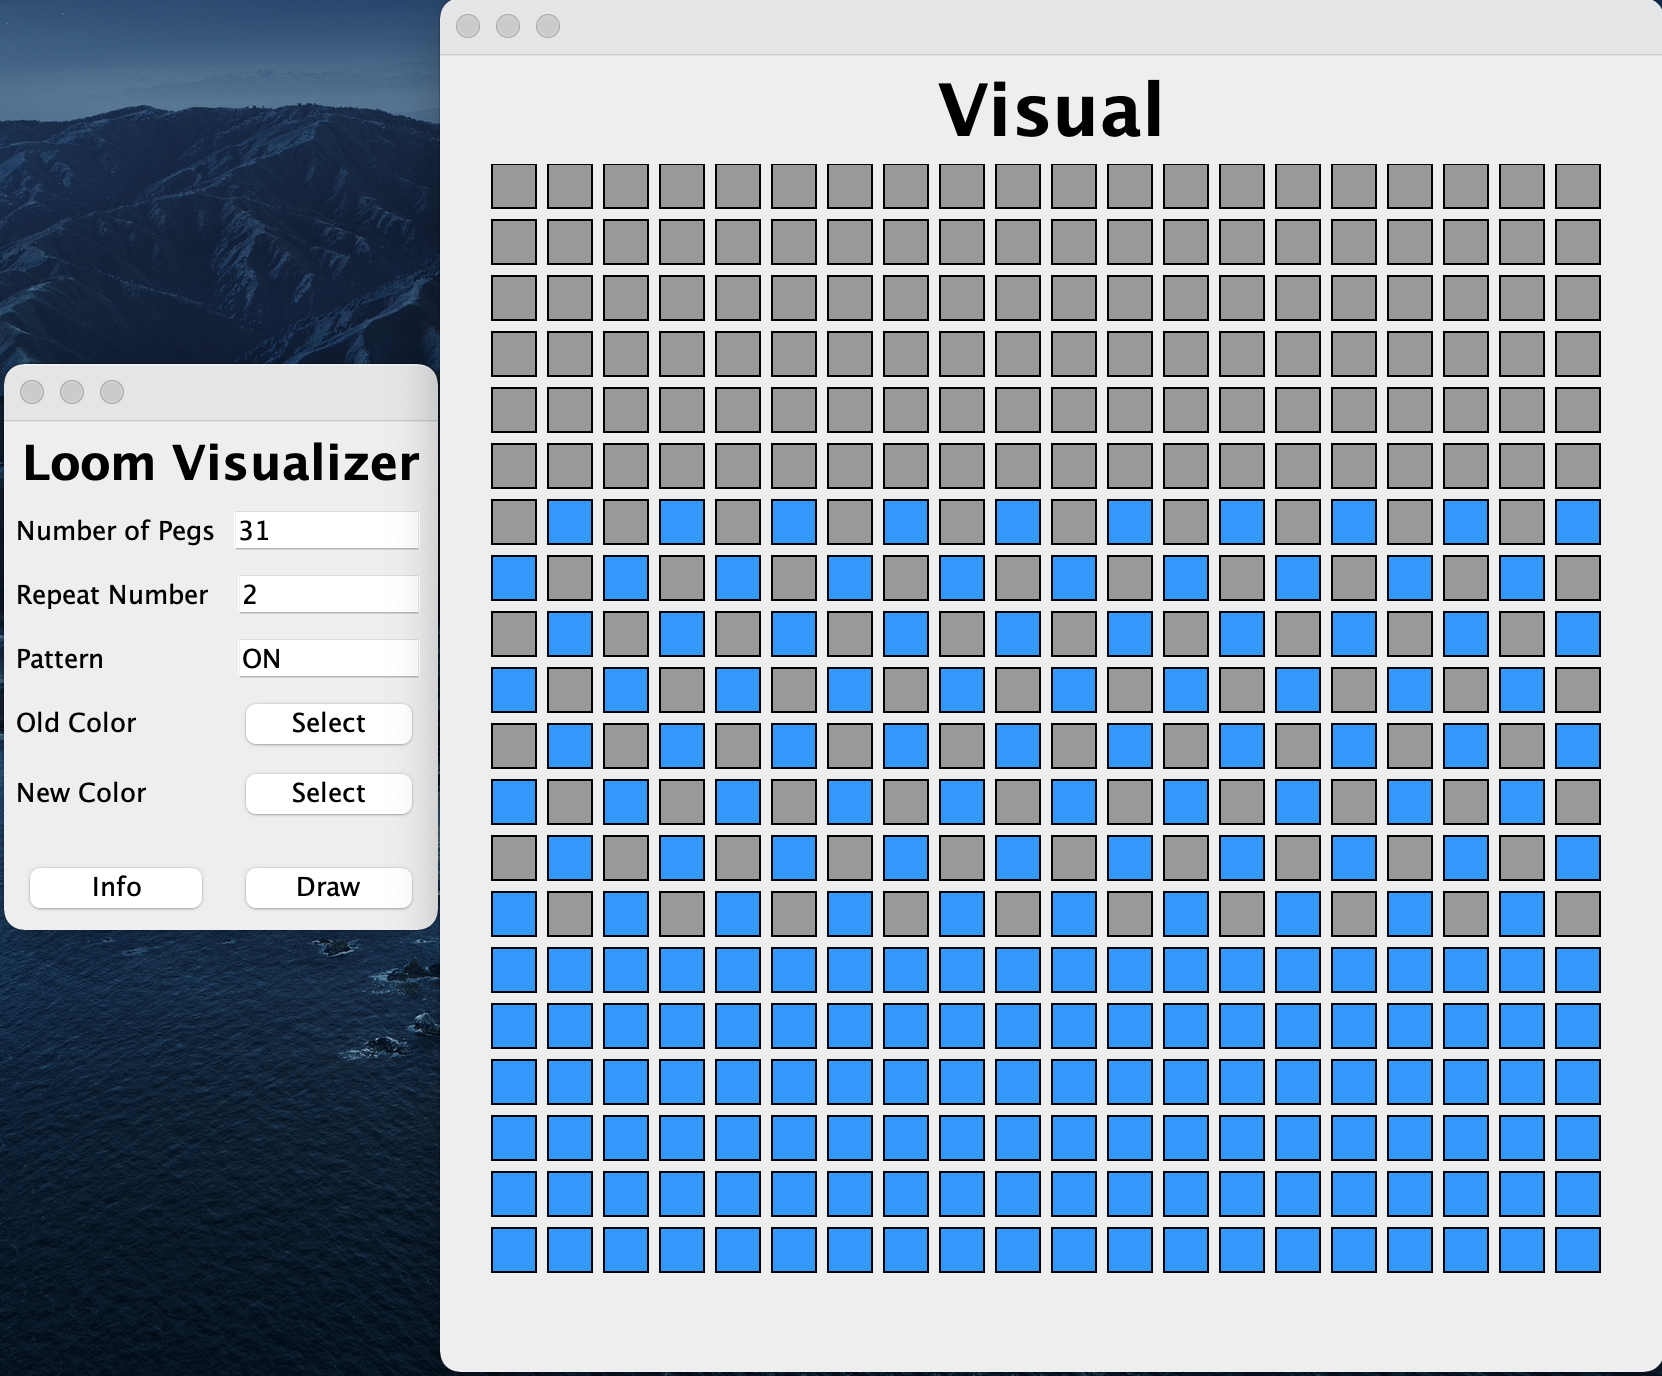
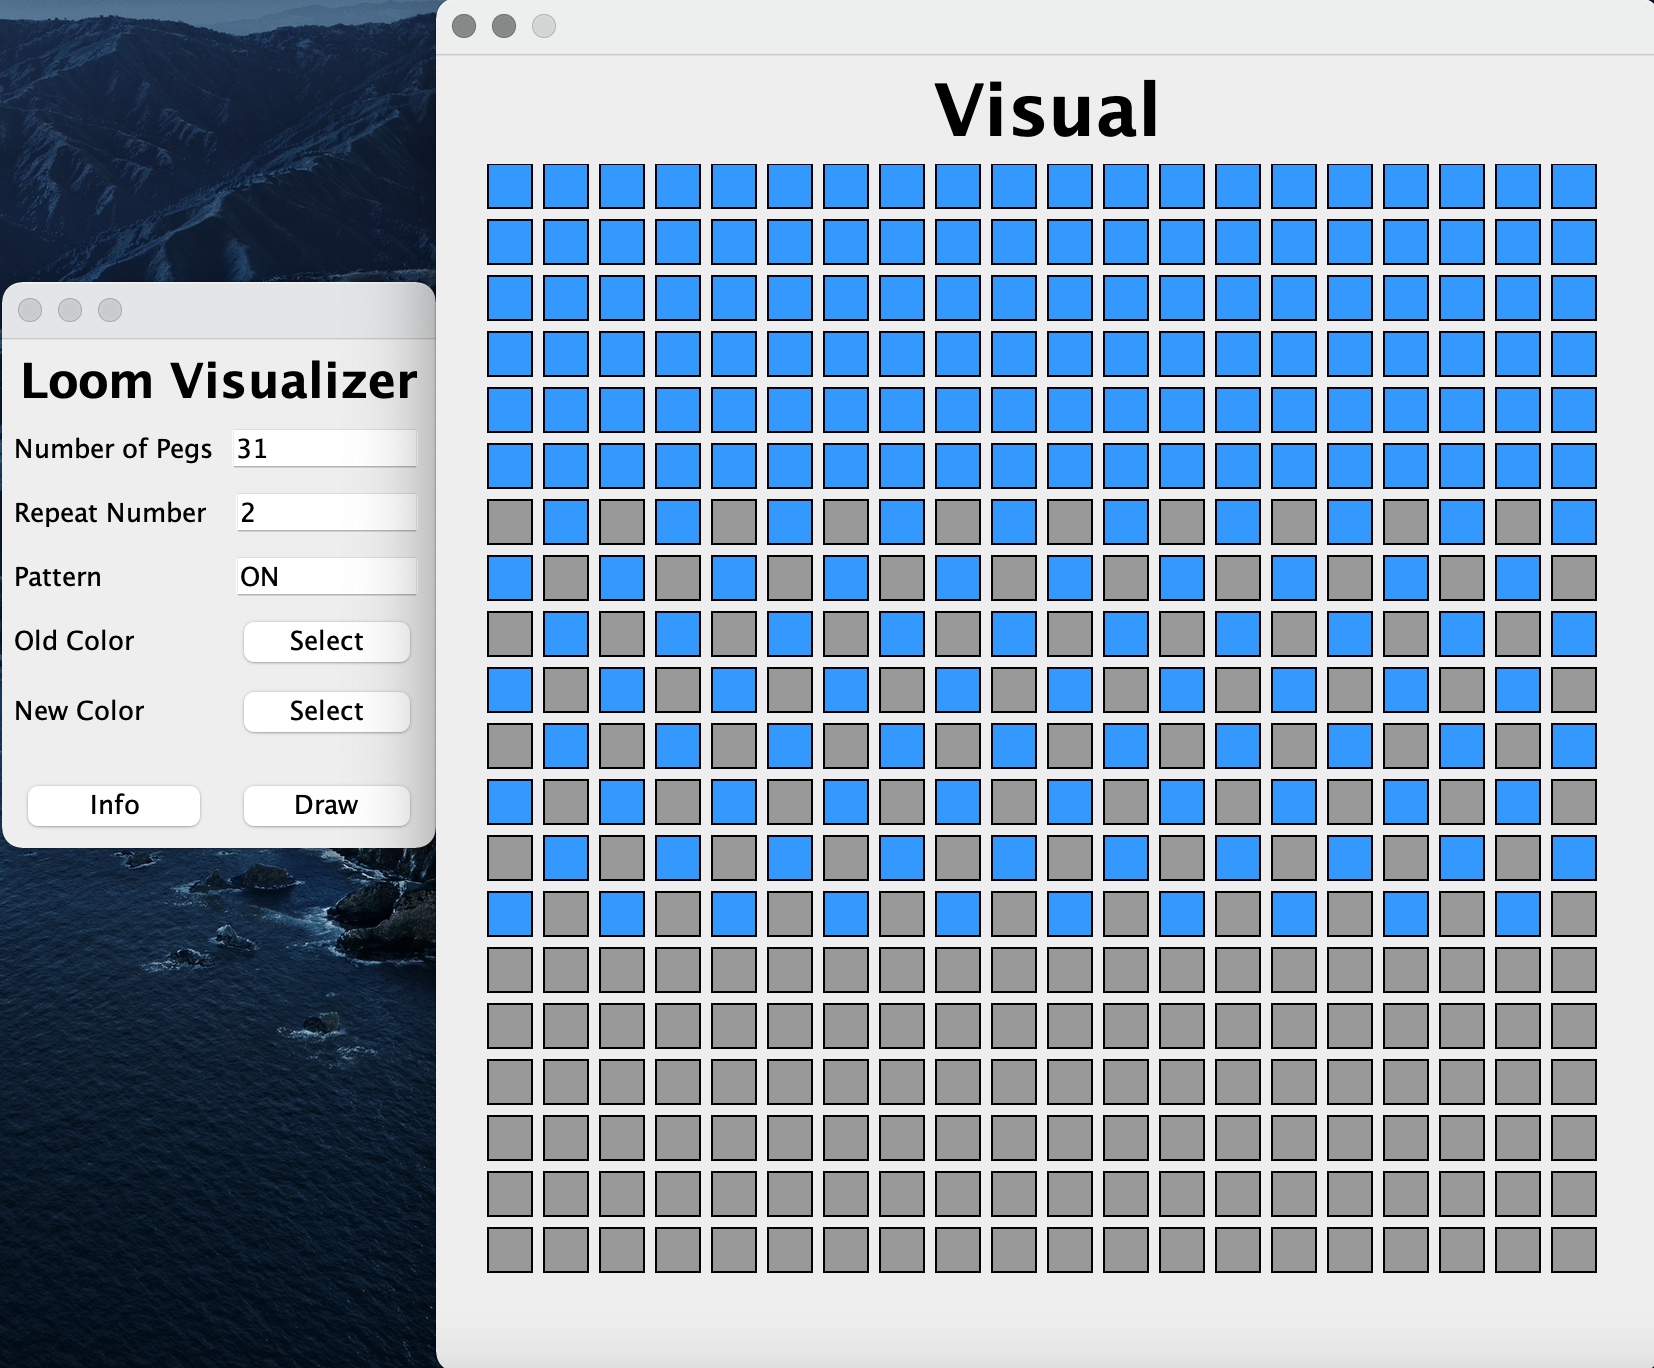
New images

diff --git a/src/main/FrameMain.java b/src/main/FrameMain.java
@@ -178,7 +178,6 @@ public class FrameMain extends javax.swing.JFrame {
         );
 
         FrameOldColor.setMinimumSize(new java.awt.Dimension(686, 465));
-        FrameOldColor.setPreferredSize(new java.awt.Dimension(686, 465));
         FrameOldColor.setResizable(false);
         FrameOldColor.setSize(new java.awt.Dimension(686, 465));
 
@@ -324,7 +323,6 @@ public class FrameMain extends javax.swing.JFrame {
         );
 
         warningDialog2.setMinimumSize(new java.awt.Dimension(285, 145));
-        warningDialog2.setPreferredSize(new java.awt.Dimension(285, 145));
         warningDialog2.setResizable(false);
         warningDialog2.setSize(new java.awt.Dimension(285, 145));
 
@@ -370,7 +368,6 @@ public class FrameMain extends javax.swing.JFrame {
         );
 
         warningDialog3.setMinimumSize(new java.awt.Dimension(285, 145));
-        warningDialog3.setPreferredSize(new java.awt.Dimension(285, 145));
         warningDialog3.setResizable(false);
         warningDialog3.setSize(new java.awt.Dimension(285, 145));
 
@@ -416,7 +413,6 @@ public class FrameMain extends javax.swing.JFrame {
         );
 
         warningDialog4.setMinimumSize(new java.awt.Dimension(285, 145));
-        warningDialog4.setPreferredSize(new java.awt.Dimension(285, 145));
         warningDialog4.setResizable(false);
         warningDialog4.setSize(new java.awt.Dimension(285, 145));
 
@@ -462,7 +458,6 @@ public class FrameMain extends javax.swing.JFrame {
         );
 
         warningDialog5.setMinimumSize(new java.awt.Dimension(296, 145));
-        warningDialog5.setPreferredSize(new java.awt.Dimension(296, 145));
         warningDialog5.setResizable(false);
         warningDialog5.setSize(new java.awt.Dimension(296, 145));
 

diff --git a/src/main/DrawPanel.java b/src/main/DrawPanel.java
@@ -52,8 +52,8 @@ public class DrawPanel extends JPanel {
             for (int x = 0; x < n; x++) {
                 counter = clamp(counter, 0, FrameMain.getRepeatNumber());
                 if (y < 6 || y > 13) {
-                    g.setColor(y <= 7 ? FrameMain.getOldColor() :
-                            FrameMain.getNewColor());
+                    g.setColor(y <= 7 ? FrameMain.getNewColor() :
+                            FrameMain.getOldColor());
                     g.fillRect(gap+x*squareGap, y*squareGap, squareSize, squareSize);
                     g.setColor(Color.BLACK);
                     g.drawRect(gap+x*squareGap, y*squareGap, squareSize, squareSize);
